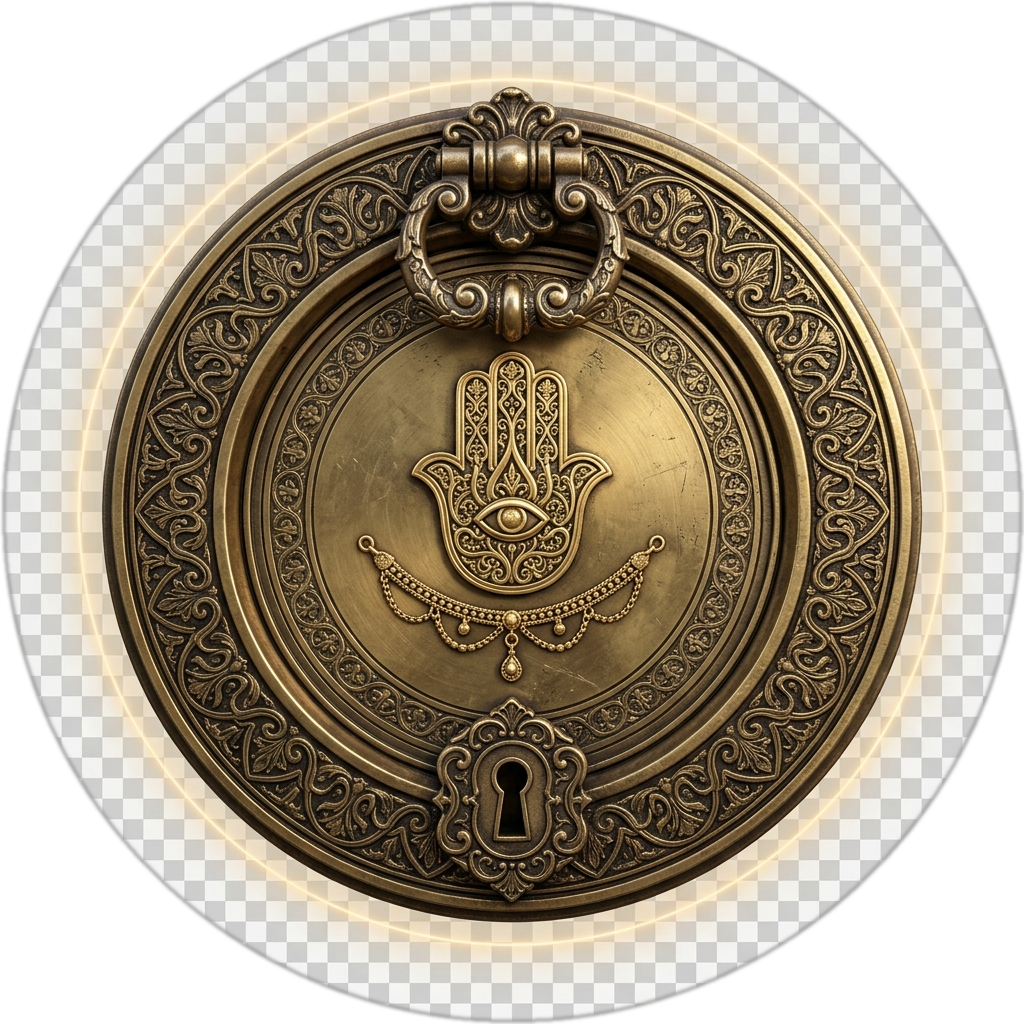
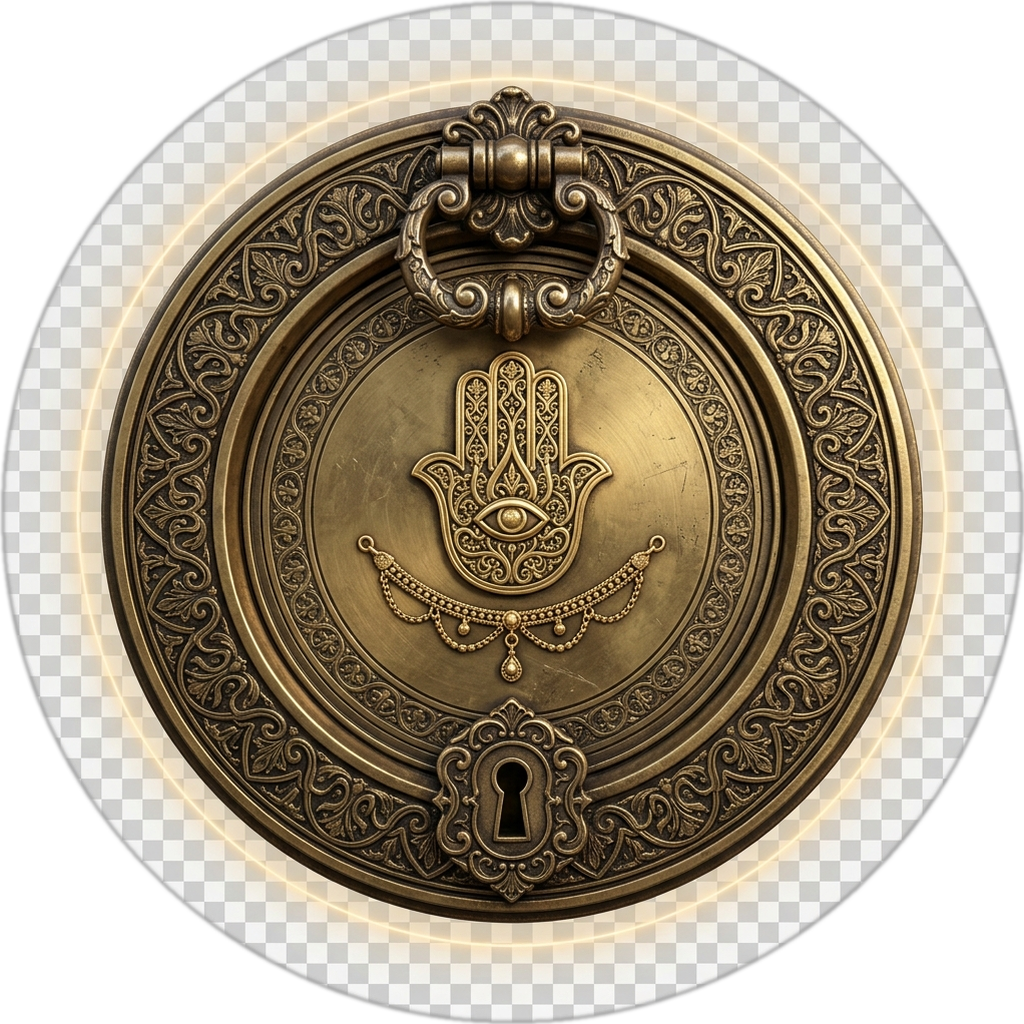
Suppression de l'Espace Vide autour du Sceau Serrure

diff --git a/app.js b/app.js
@@ -1277,13 +1277,57 @@ function applyEnvelopeDesign(cfg) {
             sealMonoText.appendChild(singleSpan);
           }
         }
+function getTifinaghInitial(name) {
+  if (!name) return 'ⵣ';
+  const clean = name.trim().toLowerCase();
+  const ch = clean.charAt(0);
+  const TIFINAGH_MAP = {
+    'a': 'ⴰ', 'b': 'ⴱ', 'c': 'ⵛ', 'd': 'ⴷ', 'e': 'ⴻ', 'f': 'ⴼ', 'g': 'ⴳ',
+    'h': 'ⵀ', 'i': 'ⵉ', 'j': 'ⵊ', 'k': 'ⴽ', 'l': 'ⵍ', 'm': 'ⵎ', 'n': 'ⵏ',
+    'o': 'ⵓ', 'p': 'ⵒ', 'q': 'ⵇ', 'r': 'ⵔ', 's': 'ⵙ', 't': 'ⵜ', 'u': 'ⵓ',
+    'v': 'ⵠ', 'w': 'ⵡ', 'x': 'ⵅ', 'y': 'ⵢ', 'z': 'ⵣ',
+    'أ': 'ⴰ', 'إ': 'ⴰ', 'ا': 'ⴰ', 'ب': 'ⴱ', 'ت': 'ⵜ', 'ث': 'ⵝ', 'ج': 'ⵊ',
+    'ح': 'ⵃ', 'خ': 'ⵅ', 'د': 'ⴷ', 'ذ': 'ⵠ', 'ر': 'ⵔ', 'ز': 'ⵣ', 'س': 'ⵙ',
+    'ش': 'ⵛ', 'ص': 'ⵚ', 'ض': 'ⴹ', 'ط': 'ⵟ', 'ظ': 'ⵯ', 'ع': 'ⵄ', 'غ': 'ⵖ',
+    'ف': 'ⴼ', 'ق': 'ⵇ', 'ك': 'ⴽ', 'ل': 'ⵍ', 'م': 'ⵎ', 'ن': 'ⵏ', 'ه': 'ⵀ',
+    'و': 'ⵡ', 'ي': 'ⵢ'
+  };
+  return TIFINAGH_MAP[ch] || 'ⵣ';
+}
+
       } else if (seal === 'lock') {
         sealImg.src = 'assets/lock_wax_seal.png';
+        sealImg.style.transform = 'scale(1.18)';
         if (sealMonoText) {
           sealMonoText.style.display = 'none';
         }
-      } else if (seal === 'amazigh' || seal === 'zellige') {
-        sealImg.src = seal === 'amazigh' ? 'assets/amazigh_wax_seal.png' : 'assets/zellige_wax_seal.png';
+      } else if (seal === 'amazigh') {
+        sealImg.src = 'assets/amazigh_wax_seal.png';
+        sealImg.style.transform = 'none';
+        if (sealMonoText) {
+          sealMonoText.style.display = 'flex';
+          sealMonoText.style.flexDirection = 'row';
+          sealMonoText.style.justifyContent = 'center';
+          sealMonoText.style.alignItems = 'center';
+          
+          const isFr = cfg.la === 'fr';
+          const groomName = isFr ? (cfg.gf2 || cfg.ga) : cfg.ga;
+          const brideName = isFr ? (cfg.bf2 || cfg.ba) : cfg.ba;
+          
+          const gTifi = getTifinaghInitial(groomName || 'G');
+          const bTifi = getTifinaghInitial(brideName || 'B');
+          
+          sealMonoText.innerHTML = `
+            <div class="amazigh-engraved-initials">
+              <span class="amazigh-char">${gTifi}</span>
+              <span class="amazigh-sep">⵰</span>
+              <span class="amazigh-char">${bTifi}</span>
+            </div>
+          `;
+        }
+      } else if (seal === 'zellige') {
+        sealImg.src = 'assets/zellige_wax_seal.png';
+        sealImg.style.transform = 'none';
         if (sealMonoText) {
           sealMonoText.style.display = 'flex';
           sealMonoText.style.flexDirection = 'column';
@@ -1300,6 +1344,7 @@ function applyEnvelopeDesign(cfg) {
         }
       } else {
         sealImg.src = `assets/${seal}_wax_seal.png`;
+        sealImg.style.transform = 'none';
         if (sealMonoText) {
           sealMonoText.style.display = 'none';
         }

diff --git a/style.css b/style.css
@@ -2381,6 +2381,35 @@ body.env-open .animated-bride-family {
   filter: brightness(1.05) contrast(1.05);
 }
 
+/* ── 3D Engraved Amazigh Tifinagh Initials ── */
+.amazigh-engraved-initials {
+  display: flex;
+  align-items: center;
+  justify-content: center;
+  gap: 6px;
+  font-family: 'Amiri', 'Segoe UI Historic', 'Ebrima', serif;
+  color: #fae69e;
+  text-shadow:
+    0 1px 2px rgba(0, 0, 0, 0.85),
+    0 0 10px rgba(255, 235, 150, 0.5),
+    inset 0 1px 1px rgba(255, 255, 255, 0.6);
+  letter-spacing: 2px;
+  direction: ltr;
+}
+
+.amazigh-engraved-initials .amazigh-char {
+  font-size: 1.65rem;
+  font-weight: 700;
+  color: #fae69e;
+  filter: drop-shadow(0 2px 4px rgba(10, 40, 15, 0.95));
+}
+
+.amazigh-engraved-initials .amazigh-sep {
+  font-size: 1.1rem;
+  color: #d4af37;
+  opacity: 0.85;
+}
+
 /* Hide nominative card completely when invitation is opened */
 .invitation.open .guest-name-banner {
   display: none !important;
